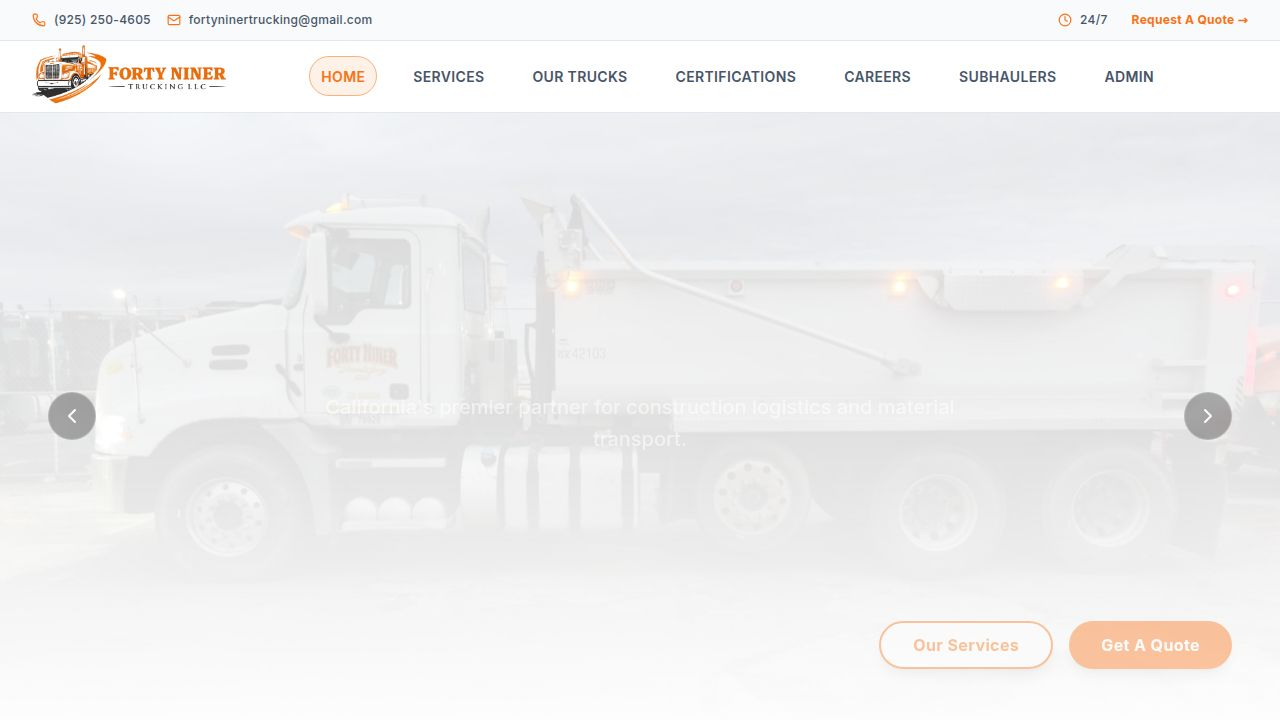
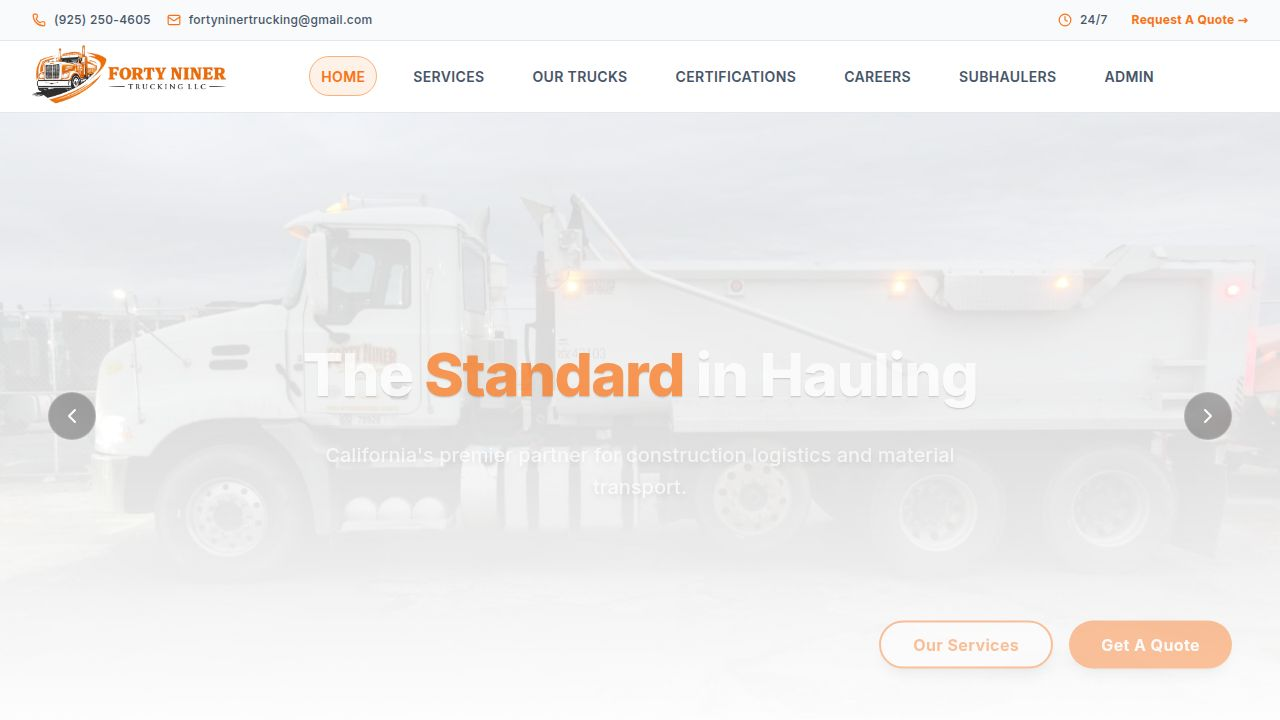
Update hero section titles and styles for improved visual appeal
Adjusted hero section title font sizes and added a new title to the home page hero section, while also modifying the font styles for existing hero sections to ensure visual consistency and hierarchy.

Replit-Commit-Author: Agent
Replit-Commit-Session-Id: df7b6bec-3167-499e-ae20-b822f43f44d6
Replit-Commit-Checkpoint-Type: full_checkpoint
Replit-Commit-Event-Id: db03ee7e-077d-4c9c-ba14-a75d730f0460
Replit-Commit-Screenshot-Url: https://storage.googleapis.com/screenshot-production-us-central1/74c87e2d-ebef-452a-bdc8-60aabaeb0e62/df7b6bec-3167-499e-ae20-b822f43f44d6/z1GJ85a
Replit-Helium-Checkpoint-Created: true

Changed region(s): [[0.3125, 0.4889, 0.5312, 0.55]]

diff --git a/client/src/pages/home.tsx b/client/src/pages/home.tsx
@@ -77,8 +77,10 @@ export default function Home() {
             transition={{ duration: 0.8, ease: "easeOut" }}
             className="max-w-4xl mx-auto space-y-8"
           >
-            
-            <p className="text-base md:text-xl text-white/80 font-medium max-w-2xl mx-auto leading-relaxed">
+            <h1 className="text-4xl md:text-5xl lg:text-6xl font-black text-white leading-[1.1] tracking-tight text-shadow-sm">
+              The <span className="text-[var(--primary)]">Standard</span> in Hauling
+            </h1>
+            <p className="text-base md:text-xl text-white/90 font-medium max-w-2xl mx-auto leading-relaxed drop-shadow-md">
               California's premier partner for construction logistics and material transport.
             </p>
           </motion.div>

diff --git a/client/src/pages/fleet.tsx b/client/src/pages/fleet.tsx
@@ -42,7 +42,7 @@ export default function Fleet() {
               Power. Precision. Performance.
             </div>
             
-            <h1 className="text-5xl md:text-7xl font-black text-white leading-[1.1] tracking-tight">
+            <h1 className="text-4xl md:text-5xl lg:text-6xl font-black text-white leading-[1.1] tracking-tight">
               The Heavy-Duty <br/>
               <span className="text-[var(--primary)]">Powerhouse</span>
             </h1>
